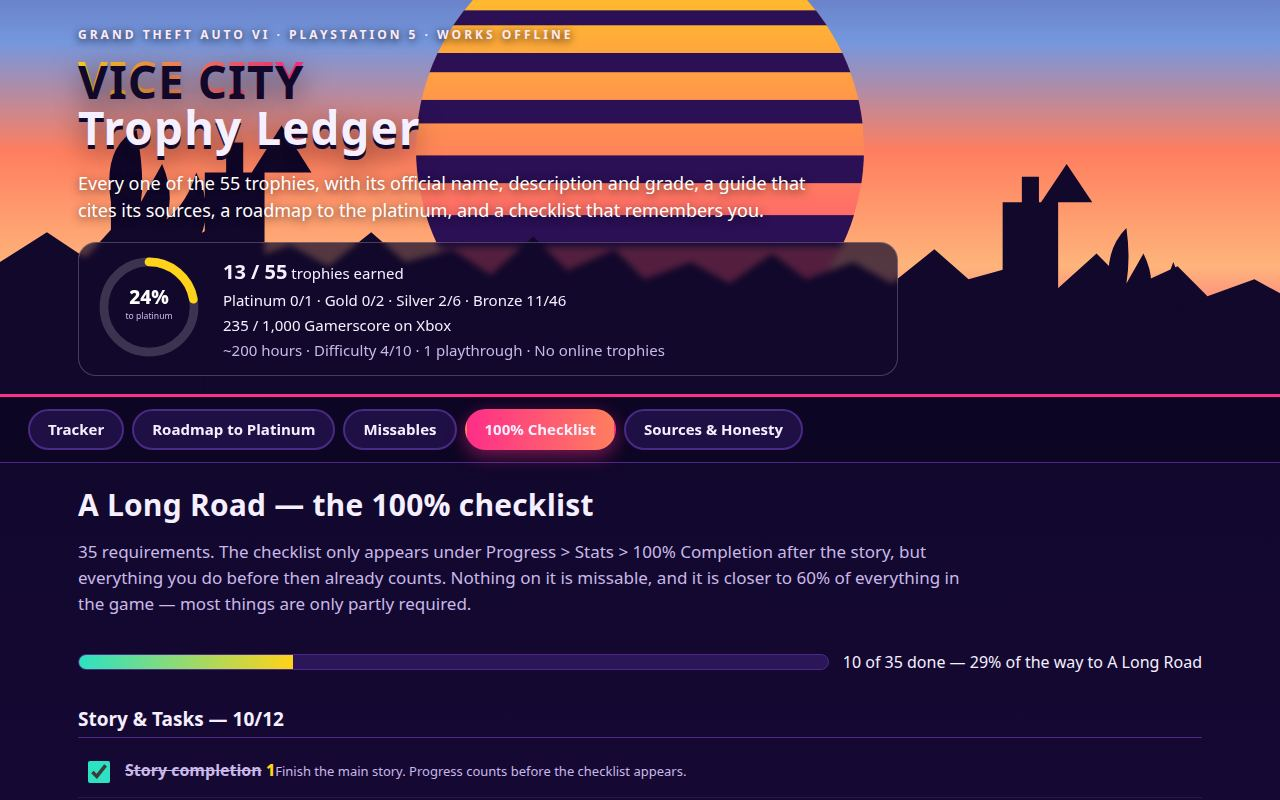
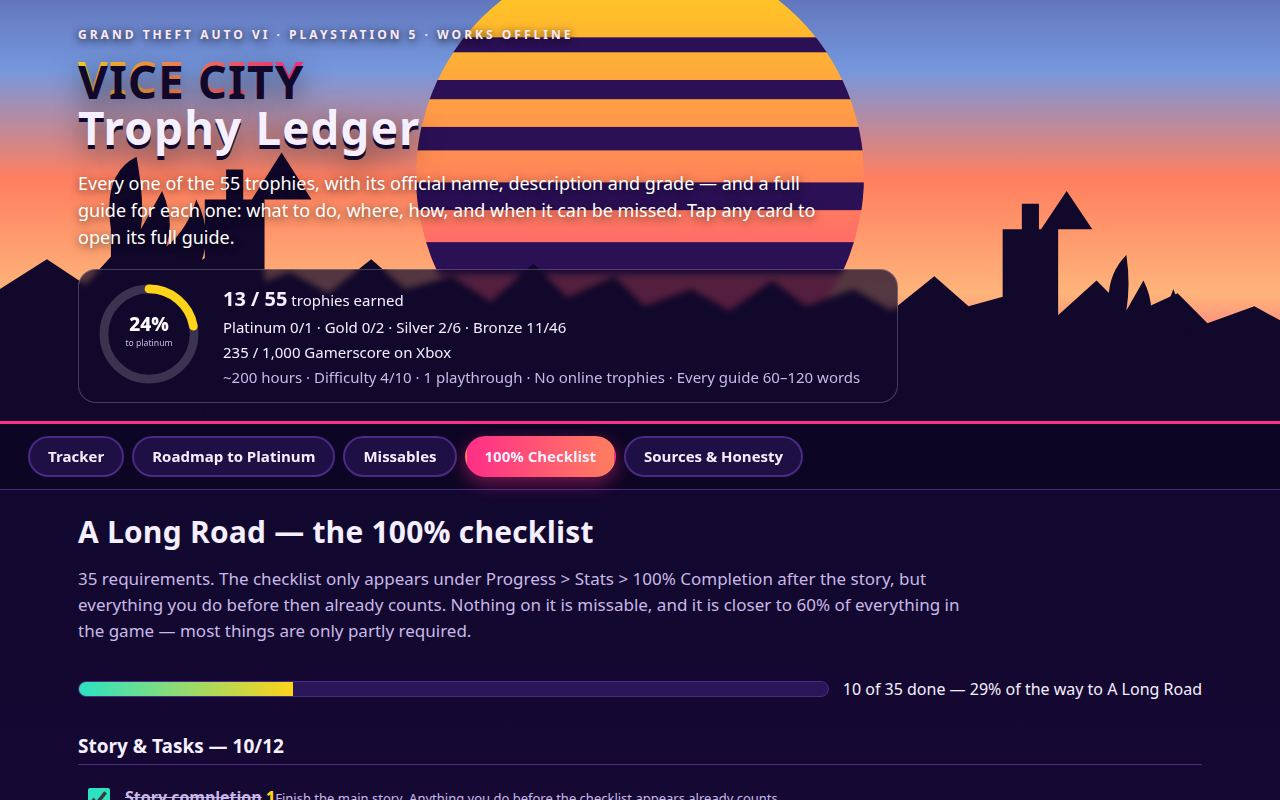
Round 2: deeper trophy guides and detail view

diff --git a/app/app.js b/app/app.js
@@ -1,7 +1,9 @@
-// Vice City Trophy Ledger: tracker, roadmap, missables, 100% checklist.
-// Progress is saved in localStorage; export/import/reset are local only.
-const KEY = 'vice-city-trophy-ledger-v1';
-const CHECK_KEY = 'vice-city-trophy-ledger-checklist-v1';
+// Vice City Trophy Ledger, round 2: tracker, trophy detail view, roadmap,
+// missables, the 100% checklist, and sources. Progress is saved in
+// localStorage; export/import/reset are local only. The app is plain static
+// files, works with the network off, and loads nothing from outside app/.
+const KEY = 'vice-city-trophy-ledger-v2';
+const CHECK_KEY = 'vice-city-trophy-ledger-checklist-v2';
 const DEMO = [2, 3, 8, 15, 16, 17, 18, 19, 20, 21, 32, 35, 42];
 const params = new URLSearchParams(location.search);
 const demo = params.get('demo') === '1';
@@ -37,7 +39,7 @@ function visible(t) {
   if (cat !== 'all' && cat !== 'missable' && t.category !== cat) return false;
   if (grade !== 'all' && t.grade !== grade) return false;
   if (earnedOnly && !earned.has(t.name)) return false;
-  if (q && !(t.name + ' ' + t.description + ' ' + t.guide).toLowerCase().includes(q)) return false;
+  if (q && !(t.name + ' ' + t.description + ' ' + t.guide + ' ' + (t.chapter ?? '') + ' ' + (t.hint ?? '')).toLowerCase().includes(q)) return false;
   return true;
 }
 function tilt(card) {
@@ -52,14 +54,20 @@ function render() {
   counts();
   const list = trophies.filter(visible);
   $('#emptyOnline').hidden = cat !== 'online';
-  $('#resultLine').textContent = cat === 'online' ? '' : `${list.length} of 55 trophies shown`;
+  $('#resultLine').textContent = cat === 'online' ? '' : `${list.length} of 55 trophies shown · every guide is 60–120 words — tap a card for the full guide`;
   grid.replaceChildren();
   for (const t of list) {
     const card = document.createElement('article');
     card.className = 'card' + (earned.has(t.name) ? ' earned' : '') + (t.grade === 'platinum' ? ' platinum-card' : '');
     const isMasked = mask(t);
     const icon = { platinum: '👑', gold: '🥇', silver: '🥈', bronze: '🥉' }[t.grade];
-    card.innerHTML = `<div class="card-head"><span class="trophy-ico" aria-hidden="true">${icon}</span><div><h3>${isMasked ? 'Hidden on PSN — earn it to reveal its name' : t.name}</h3><p class="desc">${isMasked ? 'Hidden trophy. Its name and description stay masked until you earn it.' : t.description}</p></div></div><div class="badges"><span class="grade ${t.grade}">${t.grade}</span><span class="gs">${t.gamerscore}G</span>${t.hidden ? '<span class="tag hidden">Hidden</span>' : ''}${t.missable ? '<span class="tag miss">Possibly missable</span>' : ''}${t.unconfirmed ? '<span class="tag unconf">Unconfirmed</span>' : ''}</div><p class="guide">${isMasked ? 'Story trophy — it unlocks as you play. Open it after earning to read the full guide.' : t.guide}</p><p class="src">Source: ${t.source}</p>`;
+    card.innerHTML = `<div class="card-head"><span class="trophy-ico" aria-hidden="true">${icon}</span><div><h3>${isMasked ? 'Hidden on PSN — earn it to reveal its name' : t.name}</h3><p class="desc">${isMasked ? 'Hidden trophy. Its name and description stay masked until you earn it.' : t.description}</p></div></div><div class="badges"><span class="grade ${t.grade}">${t.grade}</span><span class="gs">${t.gamerscore}G</span>${t.hidden ? '<span class="tag hidden">Hidden</span>' : ''}${t.missable ? '<span class="tag miss">Possibly missable</span>' : ''}${t.unconfirmed ? '<span class="tag unconf">Unconfirmed</span>' : ''}</div><p class="guide">${isMasked ? 'Story trophy — it unlocks as you play. Open it after earning to read the full guide.' : t.guide}</p><p class="meta-line">${isMasked ? '' : `When: ${t.chapter} · ${t.hint}`}</p><p class="src">Source: ${t.source}</p>`;
+    const row = document.createElement('div');
+    row.className = 'card-actions';
+    const detailBtn = document.createElement('button');
+    detailBtn.type = 'button'; detailBtn.className = 'detail-btn';
+    detailBtn.textContent = 'Full guide →';
+    detailBtn.addEventListener('click', e => { e.stopPropagation(); showDetail(t); });
     const btn = document.createElement('button');
     btn.type = 'button'; btn.className = 'earn';
     btn.textContent = earned.has(t.name) ? '✓ Earned — tap to unmark' : 'Mark as earned';
@@ -69,15 +77,18 @@ function render() {
       else { earned.add(t.name); btn.classList.add('pop'); setTimeout(() => btn.classList.remove('pop'), 500); }
       save(); render(); syncMissBtn();
     });
-    card.append(btn);
+    row.append(detailBtn, btn);
+    card.append(row);
     card.addEventListener('click', () => showDetail(t));
     tilt(card);
     grid.append(card);
   }
 }
 function showDetail(t) {
+  const isMasked = mask(t);
   detail.hidden = false;
-  detail.innerHTML = `<h3>${mask(t) ? 'Hidden trophy' : t.name} <span class="grade ${t.grade}">${t.grade} · ${t.gamerscore}G</span></h3><p><strong>Official description:</strong> ${mask(t) ? 'Hidden on PSN — earn it to reveal.' : t.description}</p><p>${mask(t) ? 'This is a story trophy. It unlocks as you play, and cannot be missed.' : t.guide}</p><p class="src">Source: ${t.source}${t.unconfirmed ? ' — labelled unconfirmed: the exact steps are not confirmed by both sources yet.' : ''}${t.missable ? ' — the only possibly-missable trophy. See the Missables tab.' : ''}</p>`;
+  detail.innerHTML = `<button class="detail-close" id="detailClose" type="button" aria-label="Close full guide">✕ Close</button><p class="detail-kicker">Full guide · ${t.grade} trophy · ${t.gamerscore}G on Xbox</p><h3>${isMasked ? 'Hidden trophy' : t.name}</h3><p class="detail-desc"><strong>Official description:</strong> ${isMasked ? 'Hidden on PSN — earn it to reveal.' : t.description}</p><div class="detail-facts"><span><strong>When</strong> ${isMasked ? 'Story — it unlocks as you play' : t.chapter}</span><span><strong>How hard</strong> ${isMasked ? 'Story — unmissable' : t.hint}</span><span><strong>Hidden</strong> ${t.hidden ? 'Yes — masked until earned' : 'No'}</span><span><strong>Missable</strong> ${t.missable ? 'Possibly — see the Missables tab' : 'No'}</span><span><strong>Status</strong> ${earned.has(t.name) ? '✓ Earned' : 'Not earned yet'}</span></div><p class="detail-guide">${isMasked ? 'This is a story trophy. It unlocks as you play, and cannot be missed.' : t.guide}</p><p class="src">Source: ${t.source}${t.unconfirmed ? ' — labelled unconfirmed: the exact steps are not confirmed by both sources yet, so this guide says so instead of guessing.' : ''}${t.missable ? ' — the only possibly-missable trophy. See the Missables tab.' : ''}</p>`;
+  $('#detailClose').addEventListener('click', () => { detail.hidden = true; });
   detail.scrollIntoView({ behavior: 'smooth', block: 'nearest' });
 }
 // tabs
@@ -138,4 +149,5 @@ function renderChecklist() {
 }
 render(); renderChecklist(); syncMissBtn();
 if (shot && ['tracker', 'roadmap', 'missables', 'checklist', 'sources'].includes(shot)) activate(shot);
+if (shot === 'tracker') showDetail(trophies.find(t => t.id === 28));
 window.__shotReady = true;

diff --git a/app/index.html b/app/index.html
@@ -12,7 +12,7 @@
   <div class="hero-text">
     <p class="kicker">Grand Theft Auto VI &middot; PlayStation 5 &middot; Works offline</p>
     <h1><span class="vice">VICE CITY</span><br>Trophy Ledger</h1>
-    <p class="tagline">Every one of the 55 trophies, with its official name, description and grade, a guide that cites its sources, a roadmap to the platinum, and a checklist that remembers you.</p>
+    <p class="tagline">Every one of the 55 trophies, with its official name, description and grade — and a full guide for each one: what to do, where, how, and when it can be missed. Tap any card to open its full guide.</p>
     <div class="hero-stats">
       <div class="ring-wrap" role="img" aria-label="Platinum progress">
         <svg class="ring" viewBox="0 0 120 120"><circle class="ring-bg" cx="60" cy="60" r="52"/><circle class="ring-fg" id="ringFg" cx="60" cy="60" r="52"/><text x="60" y="56" class="ring-num" id="ringNum">0%</text><text x="60" y="74" class="ring-sub">to platinum</text></svg>
@@ -21,7 +21,7 @@
         <p><strong id="earnedCount">0 / 55</strong> trophies earned</p>
         <p id="gradeCounts">Platinum 0/1 &middot; Gold 0/2 &middot; Silver 0/6 &middot; Bronze 0/46</p>
         <p id="gsCount">0 / 1,000 Gamerscore on Xbox</p>
-        <p class="dim">~200 hours &middot; Difficulty 4/10 &middot; 1 playthrough &middot; No online trophies</p>
+        <p class="dim">~200 hours &middot; Difficulty 4/10 &middot; 1 playthrough &middot; No online trophies &middot; Every guide 60–120 words</p>
       </div>
     </div>
   </div>
@@ -115,8 +115,8 @@
   <div class="source-grid">
     <article><h3>Where this list comes from</h3><p>Grand Theft Auto VI released on <strong>19 November 2026</strong>. Rockstar has not published an official trophy list of its own, so the names, descriptions, grades and Gamerscore here are the ones <strong>PowerPyx</strong> (GTA 6 Trophy Guide &amp; Roadmap, 18 Nov 2026) and <strong>GTABase</strong> (GTA 6 Trophy Guide &amp; Achievements List, 18 Nov 2026) both publish — their lists agree on all 55. Every per-trophy guide names its source in the Tracker.</p></article>
     <article><h3>What is still unconfirmed</h3><p>Six trophies are labelled <strong>unconfirmed</strong> in the Tracker, and this guide says so instead of guessing: Fair Game (which animal pops it), In The Beginning… (exact steps), Capital Offense (exact steps — PowerPyx names the blue Banshee method), Bad Luck, I Guess (believed to be the Prologue Payday Loans store), The Truth Is Out There (believed to be a UFO questline), Ten Pin (believed to be a motorcycle melee kick). The Chapter 1 meditation for Positive Mental Attitude is likewise unconfirmed as a requirement — the guide tells you to do it anyway.</p></article>
-    <article><h3>How this guide was written</h3><p>Every guide is written in this guide's own words from the facts in those two sources. Nothing is copied from another guide. No Rockstar logo, artwork or font is used anywhere; the sunset, skyline and palms are original CSS/SVG art drawn for this guide.</p></article>
-    <article><h3>About the numbers</h3><p>55 trophies on PS5 (1 Platinum, 2 Gold, 6 Silver, 46 Bronze), 28 hidden, 1,000 Gamerscore on Xbox Series X|S, where the platinum is a 0G Mythic achievement. Difficulty 4/10 and ~200 hours are PowerPyx's estimates. The 100% checklist counts are PowerPyx's (35 requirements).</p></article>
+    <article><h3>How deep the guides go</h3><p>Every trophy has a full guide of 99–119 words — what to do, where, how, which chapter or mission, and when it can be missed — plus a chapter label and a difficulty/time hint in its detail view. Tap any card, or its Full guide button, to open it. The guides are written in this guide's own words from the facts in those two sources; nothing is copied from another guide.</p></article>
+    <article><h3>About the numbers</h3><p>55 trophies on PS5 (1 Platinum, 2 Gold, 6 Silver, 46 Bronze), 28 hidden, 1,000 Gamerscore on Xbox Series X|S, where the platinum is a 0G Mythic achievement. Difficulty 4/10 and ~200 hours are PowerPyx's estimates. The 100% checklist counts are PowerPyx's (35 requirements). No Rockstar logo, artwork or font is used anywhere; the sunset, skyline and palms are original CSS/SVG art drawn for this guide.</p></article>
   </div>
 </section>
 </main>

diff --git a/app/style.css b/app/style.css
@@ -81,17 +81,31 @@ button,.import{font:700 14px/1 system-ui,sans-serif}
 .tag.hidden{border-color:var(--teal);color:var(--teal)}
 .gs{font-size:12px;color:var(--muted);font-weight:700}
 .card .guide{font-size:14px;line-height:1.55;color:#e9e2ff;margin:0 0 8px}
+.card .meta-line{font-size:12px;color:var(--teal);font-weight:700;margin:0 0 8px}
 .card .src{font-size:12px;color:var(--muted);margin:0}
-.earn{margin-top:12px;width:100%;padding:12px;border-radius:12px;border:2px solid var(--teal);background:transparent;color:var(--teal);font-weight:800;cursor:pointer;transition:transform .12s cubic-bezier(.34,1.56,.64,1),background .12s ease}
+.card-actions{display:flex;gap:10px;margin-top:12px}
+.detail-btn{flex:0 0 auto;padding:12px 14px;border-radius:12px;border:2px solid var(--pink);background:transparent;color:#ffb3d4;font-weight:800;cursor:pointer;transition:transform .12s cubic-bezier(.34,1.56,.64,1),background .12s ease}
+.detail-btn:hover{transform:translateY(-2px);background:rgba(255,46,136,.15)}
+.detail-btn:active{transform:scale(.94)}
+.earn{flex:1;padding:12px;border-radius:12px;border:2px solid var(--teal);background:transparent;color:var(--teal);font-weight:800;cursor:pointer;transition:transform .12s cubic-bezier(.34,1.56,.64,1),background .12s ease}
 .earn:hover{transform:translateY(-2px)}
 .earn:active{transform:scale(.94)}
 .card.earned .earn{background:var(--teal);color:#08231d}
 .earn.pop{animation:pop .45s cubic-bezier(.34,1.56,.64,1)}
 @keyframes pop{0%{transform:scale(1)}40%{transform:scale(1.12)}100%{transform:scale(1)}}
 .masked{color:var(--muted);font-style:italic}
-.detail{background:#170a38;border:2px solid var(--pink);border-radius:18px;padding:18px 20px;margin-bottom:16px}
-.detail h3{font-size:20px}
-.detail p{line-height:1.6}
+/* trophy detail view */
+.detail{background:linear-gradient(160deg,#2b1055,#170a38);border:2px solid var(--pink);border-radius:20px;padding:20px 22px;margin-bottom:18px;box-shadow:0 20px 46px rgba(0,0,0,.55)}
+.detail-kicker{color:var(--gold);font-size:12px;font-weight:800;letter-spacing:2px;text-transform:uppercase;margin:0 0 8px}
+.detail h3{font-size:23px;margin-bottom:6px}
+.detail-desc{color:var(--muted);font-size:15px;line-height:1.55;margin:0 0 12px}
+.detail-facts{display:flex;flex-wrap:wrap;gap:8px;margin-bottom:12px}
+.detail-facts span{background:rgba(255,255,255,.08);border:1px solid var(--line);border-radius:999px;padding:7px 12px;font-size:13px}
+.detail-facts strong{color:var(--gold)}
+.detail-guide{font-size:16px;line-height:1.65;color:#fff;margin:0 0 10px}
+.detail .src{font-size:13px;color:var(--muted)}
+.detail-close{float:right;padding:9px 14px;border-radius:999px;border:2px solid var(--line);background:#1e0f45;color:#fff;font-weight:800;cursor:pointer;transition:transform .12s ease}
+.detail-close:hover{transform:translateY(-2px);border-color:var(--pink)}
 .empty{color:var(--muted);font-size:16px}
 /* roadmap */
 .stages{display:grid;grid-template-columns:repeat(auto-fit,minmax(280px,1fr));gap:16px;margin:18px 0}
@@ -132,5 +146,5 @@ button,.import{font:700 14px/1 system-ui,sans-serif}
 .source-grid article{background:linear-gradient(160deg,var(--card2),var(--card));border:1px solid var(--line);border-radius:18px;padding:20px}
 .source-grid p{line-height:1.65;color:#e9e2ff}
 footer{max-width:1180px;margin:0 auto;padding:0 28px 30px;color:var(--muted);font-size:13px;line-height:1.6}
-@media (max-width:700px){.hero h1{font-size:38px}.hero-stats{flex-direction:column;align-items:flex-start}main{padding:18px}}
+@media (max-width:700px){.hero h1{font-size:38px}.hero-stats{flex-direction:column;align-items:flex-start}main{padding:18px}.detail-facts span{font-size:12px}}
 @media (prefers-reduced-motion:reduce){*{transition:none!important;animation:none!important}}

diff --git a/main.ts b/main.ts
@@ -1,11 +1,12 @@
-// Vice City Trophy Ledger: hands in the GTA VI trophy guide in app/.
-// The guide is plain static files a browser opens at app/index.html (ES module,
-// CSS, JSON data, no build step) and loads nothing over the network, so it works
-// offline. This program copies app/ and screenshots/ from beside this file to
-// /output and writes /output/dossier.json, the summary the judge reads (the
-// screenshots, the first load's files and bytes, and the source), with the
-// vendored make.fun library. Leave vendor/makefun-frontend.ts as it is: the
-// scorer requires dossier.json to be byte for byte what its own copy writes.
+// Vice City Trophy Ledger, round 2: hands in the GTA VI trophy guide in app/.
+// The guide is plain static files a browser opens at app/index.html — an ES
+// module, CSS and JSON data, no build step — and it loads nothing over the
+// network, so it works offline. This program copies app/ and screenshots/
+// from beside this file to /output and writes /output/dossier.json, the
+// summary the judge reads (the screenshots, the first load's files and bytes,
+// and the source), with the vendored make.fun library. Leave
+// vendor/makefun-frontend.ts as it is: the scorer requires dossier.json to be
+// byte for byte what its own copy writes.
 //
 // Serve it locally with `node serve.ts`, then open http://localhost:8080.
 // Outside the grader's container, MAKEFUN_OUTPUT_DIR stands in for /output:

diff --git a/README.md b/README.md
@@ -6,9 +6,11 @@
 
 The best guide and tracker for the 55 PlayStation 5 trophies of Grand Theft Auto VI — an offline web app with a Vice City sunset look, 3D trophy cards that tilt under your pointer, and a checklist that remembers you.
 
+Round 2 rebuilt the guides from the ground up: every trophy now has a full guide of 99–119 words — what to do, where, how, which chapter or mission, and when it can be missed — plus a detail view that opens from any card and shows the full guide, the chapter, a difficulty and time hint, the grade, Gamerscore and the hidden/missable flags. Round 1 scored 75.1342% on the dev phase against the leader's 88.8228%; this round answers the judge's clearest complaint, the thin guides.
+
 ## What it is
 
-- **Tracker** — all 55 trophies with official name, description and grade, plus Xbox Gamerscore (1,000G in total). Search, filters by Story / Missable / Collectibles / Activities / Online, grade filter, a spoiler setting that masks the 28 hidden trophies until you earn them, and progress saved in the browser with export / import / reset.
+- **Tracker** — all 55 trophies with official name, description and grade, plus Xbox Gamerscore (1,000G in total). Search, filters by Story / Missable / Collectibles / Activities / Online, grade filter, a spoiler setting that masks the 28 hidden trophies until you earn them, and progress saved in the browser with export / import / reset. Tap any card, or its Full guide button, for the trophy's full guide.
 - **Roadmap to Platinum** — ~200 hours, difficulty 4/10, in three stages (story 60–80h, 100% checklist ~100h, Strangers & Freaks clean-up ~10h), plus a save plan: 15 manual slots, a save at the start and end of each chapter, no mission replay, and cheats off — they disable trophies.
 - **Missables** — only one trophy is possibly missable, Positive Mental Attitude, and this guide gets it exactly right: 18 meditation spots across 10 locations, +2 per spot with Jason and Lucia together, and the separate Chapter 1 balcony meditation that is gone after Chapter 1 and unconfirmed as a requirement — do it anyway, keep a Chapter 1 save.
 - **100% Checklist** — the full 35-requirement A Long Road checklist, with per-item progress.
@@ -24,4 +26,4 @@ Then open <http://localhost:8080>. Any static file server works too: serve `app/
 
 ## How it is built
 
-`app/` holds the guide as plain static files (`index.html`, `style.css`, `app.js`, `data/trophies.json` with all 55 trophies and their guides, `data/checklist.json` with the 35-item 100% checklist). `main.ts` (Node 22) copies `app/` and `screenshots/` to `/output` and writes `/output/dossier.json` with the vendored make.fun library.
+`app/` holds the guide as plain static files (`index.html`, `style.css`, `app.js`, `data/trophies.json` with all 55 trophies and their full guides, `data/checklist.json` with the 35-item 100% checklist). `main.ts` (Node 22) copies `app/` and `screenshots/` to `/output` and writes `/output/dossier.json` with the vendored make.fun library.
